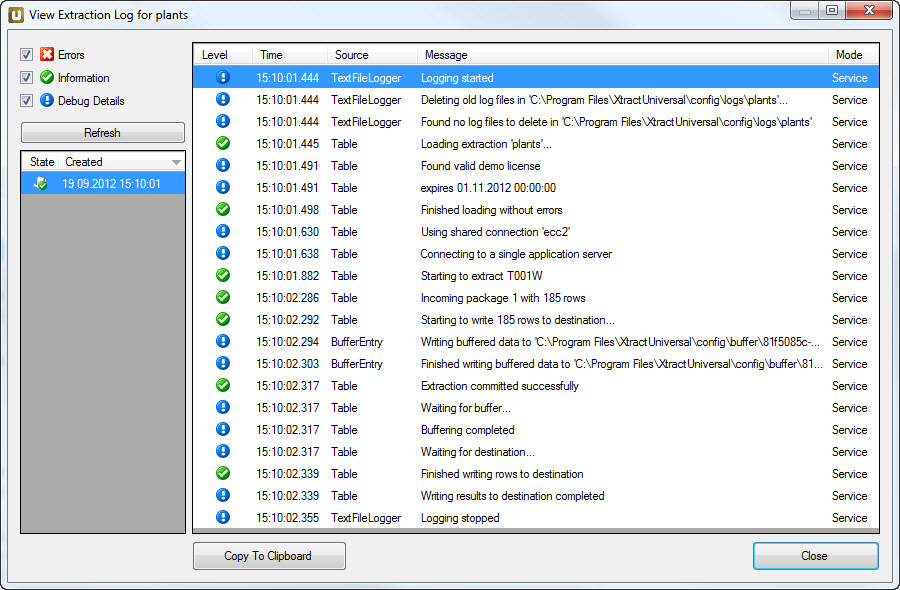
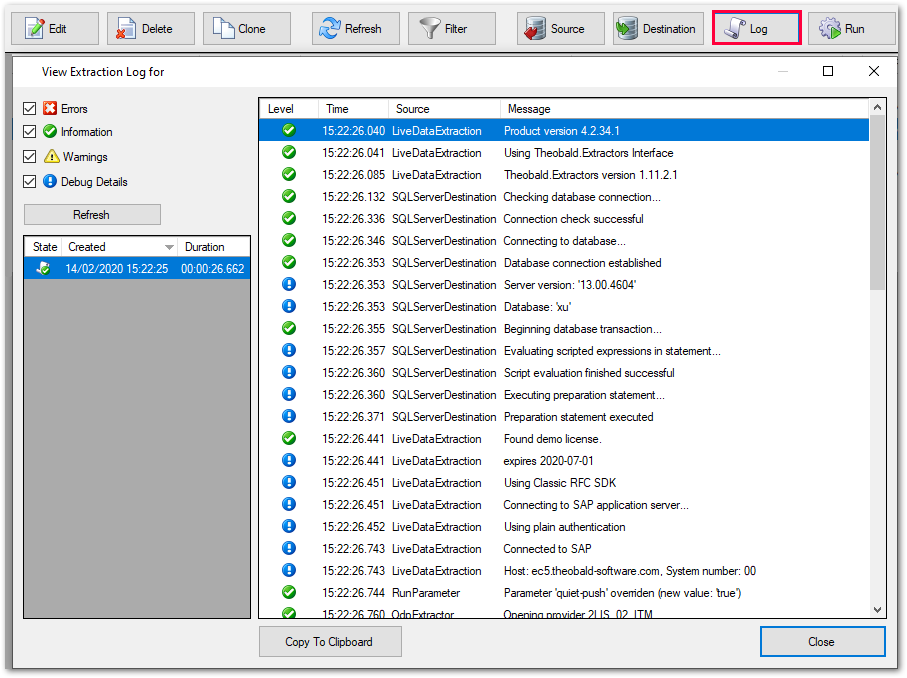
dead links, editorial improvements

diff --git a/_includes/_content/en/xu-specific/logging/server-logging.md b/_includes/_content/en/xu-specific/logging/server-logging.md
@@ -1,17 +1,26 @@
-Xtract Universal logs all steps performed on a system to log files. This happens on two levels: The server log contains logs that affect the server, such as starting and stopping the server and the execution of a single extraction. In addition, there are extraction logs, which contain detailed information on each extraction process.
+All Theobald Software products log all steps performed on a system to log files. There are two types of logs: 
+- The server log, which contains logs that affect the server, such as starting and stopping the server. The server log also contains the information on execution of a single extraction.
+- Extraction log, which logs the extraction process of every single extraction.
 
-To view the server log, please click in the main menu on *Server -> Log*. As the screenshot shows a log will be generated per day. To switch between protocols you can use the list on the left. 
 
+To view the server log, navigate to the main menu of the Designer and click **[Server > Log]**. 
   
 ![View-Server-Log](/img/content/View-Server-Log.png){:class="img-responsive"}
 
-Each log entry is assigned a log level. The following log levels exist:
+Logs are generated per day. To switch between protocols you can use the list on the left. 
 
-**Errors –** are errors.
+### Log levels
+Each log entry is assigned a log level. 
 
-**Information –** about activities, that have not resulted in an error.
+- **Errors** - error messages that are issued during the extraction process.
+- **Information** - status messages that do not result in an error.
+- **Warnings** - information about issues that do not result in an error. For example, authentication failures.
+- **Debug Details** - detailed information that helps finding the reason for occurred  errors.
 
-**Debug Details –** are detail information that are not usually needed.
+Select the checkboxes on the top left to decide, which log levels to display. 
 
-You can select the checkboxes on the top left to decide, which log levels should be showed. Using the *Copy To Clipboard* button, the current log output is copied to the clipboard and can be pasted when needed in an email.
+### Copying the log
+Click **[Copy To Clipboard]** to copy the current log output to the clipboard. The copied log can be pasted anywhere (e.g., email).
+
+Both server and extraction logs are automatically deleted after a defined period. The period can be set in the server configuration.
 

diff --git a/_includes/_content/en/xu-specific/logging/extraction-logging.md b/_includes/_content/en/xu-specific/logging/extraction-logging.md
@@ -1,11 +1,11 @@
-In addition to the logging server the log of each extraction process can be called from the main screen by clicking the *Log* button.
+In addition to the [server logging](./server-logging) the log of each extraction process is saved in the extraction log.
 
-![Extraction-Logging-Button-Position](/img/content/Extraction-Logging-Button-Position.png){:class="img-responsive"}
+To view the extraction log, nagivate to the main window of the designer and click **[Log]**.
+![View-Extraction-Log](/img/content/View-Extraction-Log.png){:class="img-responsive"}
 
-Here you will find on the left side a time stamp for each extraction process, which can be shown by clicking.
+Time stamp for each extraction process is displayed at the left part of the "View Extraction Log" window.
 
-If you want to send a report via mail to the support, please make sure that the debug details are always showed to provide as much information as possible.
+When sending an email to the support, make sure to keep the debug details visible to provide as much information as possible.
 
 Both server and extraction logs are automatically deleted after a defined period. The period can be set in the server configuration.
 
-![View-Extraction-Log](/img/content/View-Extraction-Log.png){:class="img-responsive"}

diff --git a/_includes/_content/en/abap-reports/setup-of-the-custom-function-module.md b/_includes/_content/en/abap-reports/setup-of-the-custom-function-module.md
@@ -1,4 +1,4 @@
 
-Unlike the other components, the Xtract Universal Report component requires the installation of a custom function module in your SAP system before use.
+Unlike the other components, the Report component requires the installation of a custom function module in your SAP system before use.
 
-For detail information read the chapter [Install Report Custom Fuction Module](../sap-customizing/install-report-custom-function-module) in the section SAPCustomizing.
+For detailed information, see section [Install Report Custom Fuction Module](../sap-customizing/install-report-custom-function-module) in the section SAPCustomizing.

diff --git a/_includes/_content/en/bw-infocubes-and-bex-queries/bw-cube-extraction-define.md b/_includes/_content/en/bw-infocubes-and-bex-queries/bw-cube-extraction-define.md
@@ -1,4 +1,4 @@
-The Xtract Universal BW Cube data source component was developed to extract data from SAP BW InfoCubes and QueryCubes (also known as BEx Queries).
+The Xtract BW Cube data source component was developed to extract data from SAP BW InfoCubes and QueryCubes (also known as BEx Queries).
 
 After the definition of a BW Cube data source the following screen pops up:
 

diff --git a/content/_en/board-connector/sap-queries/query-extraction-define.md b/content/_en/board-connector/sap-queries/query-extraction-define.md
@@ -3,7 +3,7 @@ ref: bc-sap-queries-01
 layout: page
 title: Define a Query Extraction
 description: Define a Query Extraction
-product: xtract-universal
+product: board-connector
 parent: sap-queries
 permalink: /:collection/:path
 weight: 1

diff --git a/content/_en/board-connector/advanced-techniques/sap-single-sign-on/sso-with-sap-logon-ticket.md b/content/_en/board-connector/advanced-techniques/sap-single-sign-on/sso-with-sap-logon-ticket.md
@@ -3,7 +3,7 @@ ref: xu-sso-02
 layout: page
 title: SSO with SAP Logon Ticket
 description: SSO with SAP Logon Ticket
-product: xtract-universal
+product: board-connector
 parent: sap-single-sign-on
 permalink: /:collection/:path
 weight: 2

diff --git a/content/_en/board-connector/sap-queries/select-options-entering.md b/content/_en/board-connector/sap-queries/select-options-entering.md
@@ -3,7 +3,7 @@ ref: bc-sap-queries-03
 layout: page
 title: Entering Select Options
 description: Entering Select Options
-product: xtract-universal
+product: board connector
 parent: sap-queries
 permalink: /:collection/:path
 weight: 3

diff --git a/content/_en/board-connector/sap-queries/extraction-settings.md b/content/_en/board-connector/sap-queries/extraction-settings.md
@@ -3,7 +3,7 @@ ref: bc-sap-queries-04
 layout: page
 title: Extraction Settings
 description: Extraction Settings
-product: xtract-universal
+product: board-connector
 parent: sap-queries
 permalink: /:collection/:path
 weight: 4

diff --git a/content/_de/board-connector/table-join/felder-selektieren.md b/content/_de/board-connector/table-join/felder-selektieren.md
@@ -3,7 +3,7 @@ ref: bc-table-join-03
 layout: page
 title: Felder selektieren
 description: Felder selektieren
-product: xtract-universal
+product: board-connector
 parent: table-join
 permalink: /:collection/:path
 weight: 3

diff --git a/content/_en/board-connector/sap-queries/apply-variants.md b/content/_en/board-connector/sap-queries/apply-variants.md
@@ -3,7 +3,7 @@ ref: bc-sap-queries-02
 layout: page
 title: Apply Variants
 description: Apply Variants
-product: xtract-universal
+product: board-connector
 parent: sap-queries
 permalink: /:collection/:path
 weight: 2
